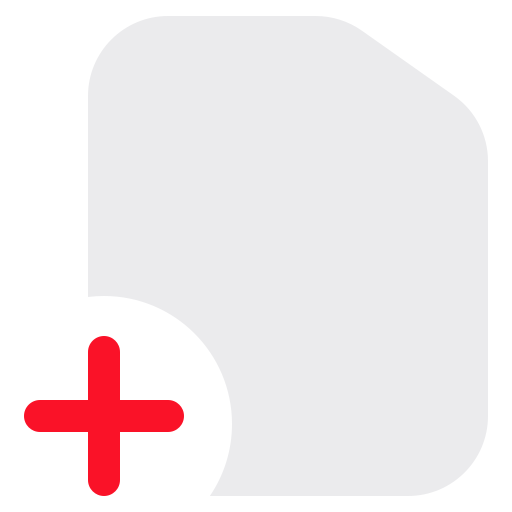
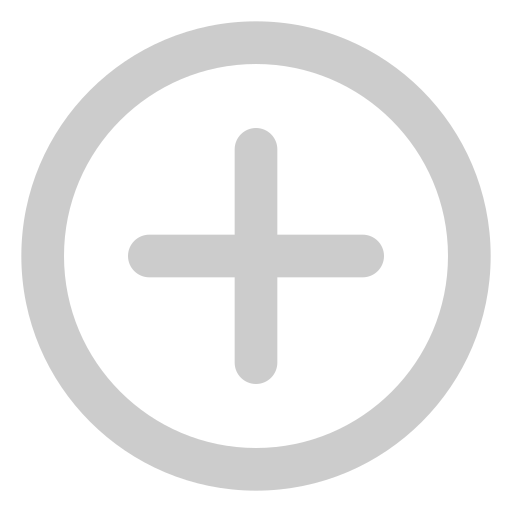
version beta

diff --git a/src/pages/HistoryPage.jsx b/src/pages/HistoryPage.jsx
@@ -62,7 +62,7 @@ export default function HistoryPage({ user, isConnected }) {
         <div className="history-page">
             <div className="history-header">
                 <button className="back-btn" onClick={() => navigate(-1)}>← Retour</button>
-                <h1>📋 Mon historique</h1>
+                <h1><img src="/historique.png" alt="historique" style={{ width: '1.2em', verticalAlign: 'middle' }} /> Mon historique</h1>
                 <p className="history-hint">
                     {hasFilter
                         ? "Résultats filtrés — triés du plus récent au plus ancien."
@@ -75,7 +75,7 @@ export default function HistoryPage({ user, isConnected }) {
                 <input
                     className="history-filter-input"
                     type="text"
-                    placeholder="🔍 Mot-clé (titre, contenu)..."
+                    placeholder="Mot-clé (titre, contenu)..."
                     value={search}
                     onChange={e => setSearch(e.target.value)}
                 />

diff --git a/src/components/nav/NavMenu.jsx b/src/components/nav/NavMenu.jsx
@@ -7,8 +7,8 @@ import '../../styles/nav/NavMenu.css'
 export default function NavMenu({ isConnected }) {
     return (
         <nav className="nav-menu">
-            <MenuItem label="🏠 Home" to="/" />
-            <MenuItem label="🏷 Catégories" to="/categories" />
+            <MenuItem label="Home" to="/" />
+            <MenuItem label="Catégories" to="/categories" />
 
             {isConnected && (
                 <MenuItem label="➕ Poster" to="/create" />

diff --git a/src/components/notifications/NotifButton.jsx b/src/components/notifications/NotifButton.jsx
@@ -5,7 +5,7 @@ import '../../styles/layout/Header.css'
 export default function NotifButton({ onClick, count }) {
     return (
         <button className="header-button notif-button-wrap" onClick={onClick}>
-            🔔
+            <img src="/notification.png" alt="notifications" style={{ width: '1.2em', verticalAlign: 'middle' }} />
             {count > 0 && (
                 <span className="notif-badge">{count > 99 ? '99+' : count}</span>
             )}

diff --git a/src/pages/AdminPage.jsx b/src/pages/AdminPage.jsx
@@ -162,7 +162,7 @@ export default function AdminPage() {
                     <input
                         className="admin-search-input"
                         type="text"
-                        placeholder="🔍 Chercher un utilisateur..."
+                        placeholder="Chercher un utilisateur..."
                         value={userSearch}
                         onChange={e => setUserSearch(e.target.value)}
                     />

diff --git a/src/components/layout/Header.jsx b/src/components/layout/Header.jsx
@@ -90,7 +90,7 @@ export default function Header({ user, isConnected, onLogout }) {
                         onClick={() => navigate('/history')}
                         title="Mon historique"
                     >
-                        📋 Historique
+                        <img src="/historique.png" alt="historique" style={{ width: '1.1em' }} /> Historique
                     </button>
                 )}
 

diff --git a/src/components/posts/PostDetail.jsx b/src/components/posts/PostDetail.jsx
@@ -105,7 +105,7 @@ export default function PostDetail({ post, user }) {
 
                 {canDelete && (
                 <button className="delete-post-btn" onClick={handleDelete}>
-                    🗑 Supprimer
+                    Supprimer
                 </button>
             )}
 

diff --git a/src/styles/layout/Header.css b/src/styles/layout/Header.css
@@ -85,6 +85,9 @@
 
 /* Bouton historique */
 .header-history-btn {
+  display: inline-flex;
+  align-items: center;
+  gap: 0.4rem;
   padding: 0.4rem 0.9rem;
   border: 1.5px solid var(--border-light);
   border-radius: var(--radius-pill);
